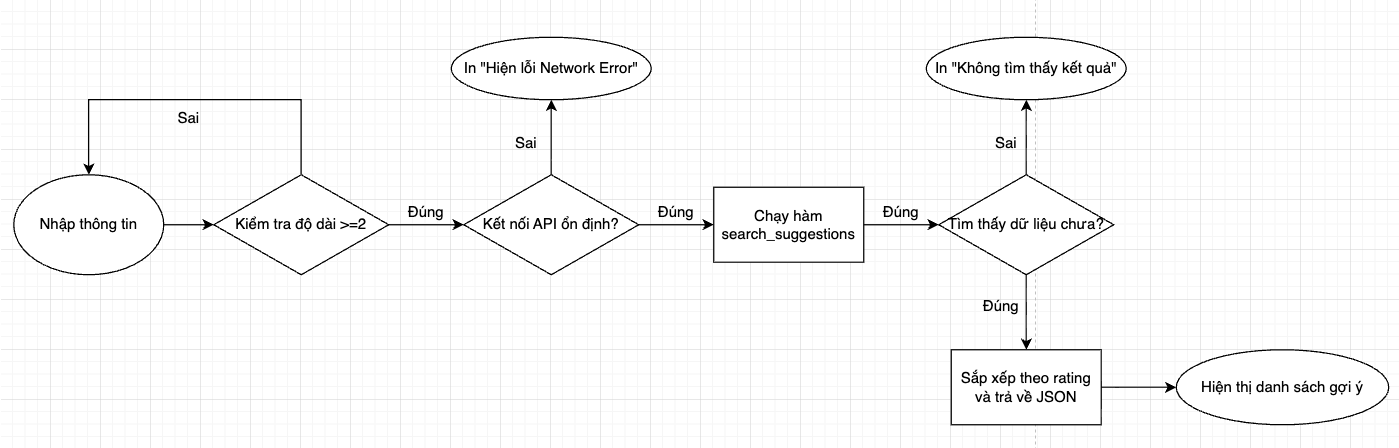
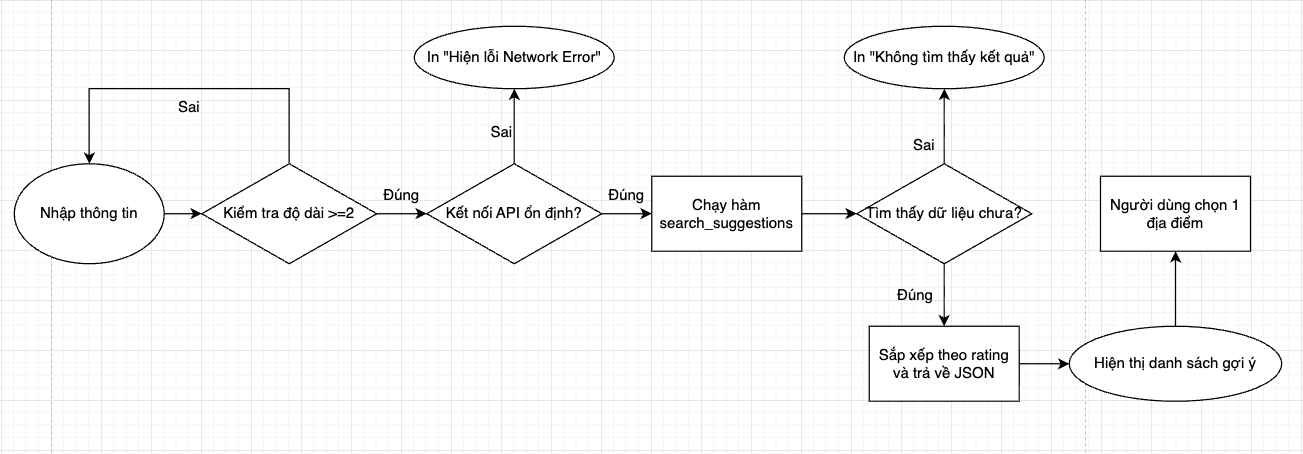
Fix: correct image path for workflow

diff --git a/autocomplete.py b/autocomplete.py
@@ -59,7 +59,7 @@ if __name__ == "__main__":
     print("--- HỆ THỐNG DU LỊCH THÔNG MINH (MÔ PHỎNG) ---")
     
     # Kịch bản: Anh A nhập chữ 'L' [cite: 300]
-    query = "L"
+    query = str(input('Nhap noi ban muon den: '))
     suggestions = engine.search_suggestions(query)
     
     if suggestions:
